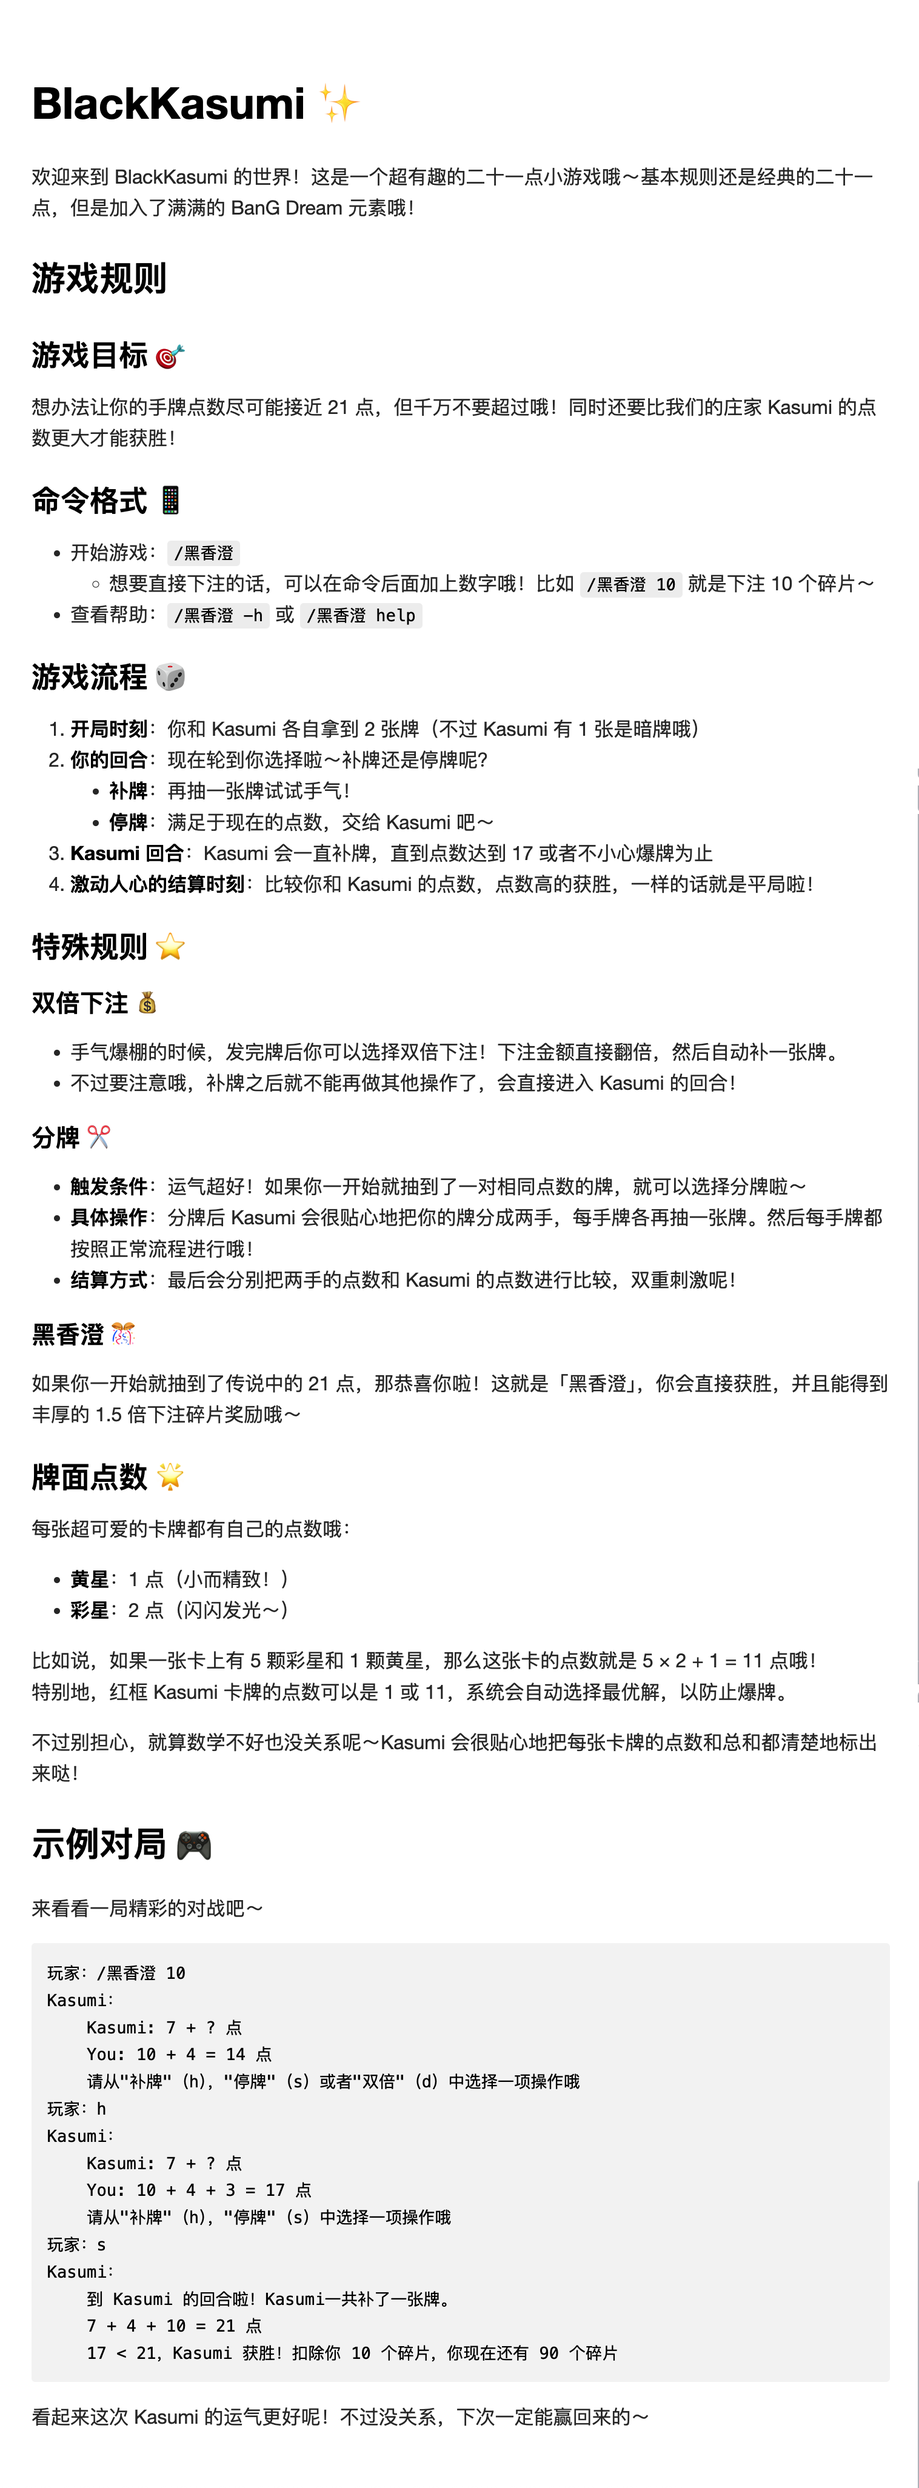
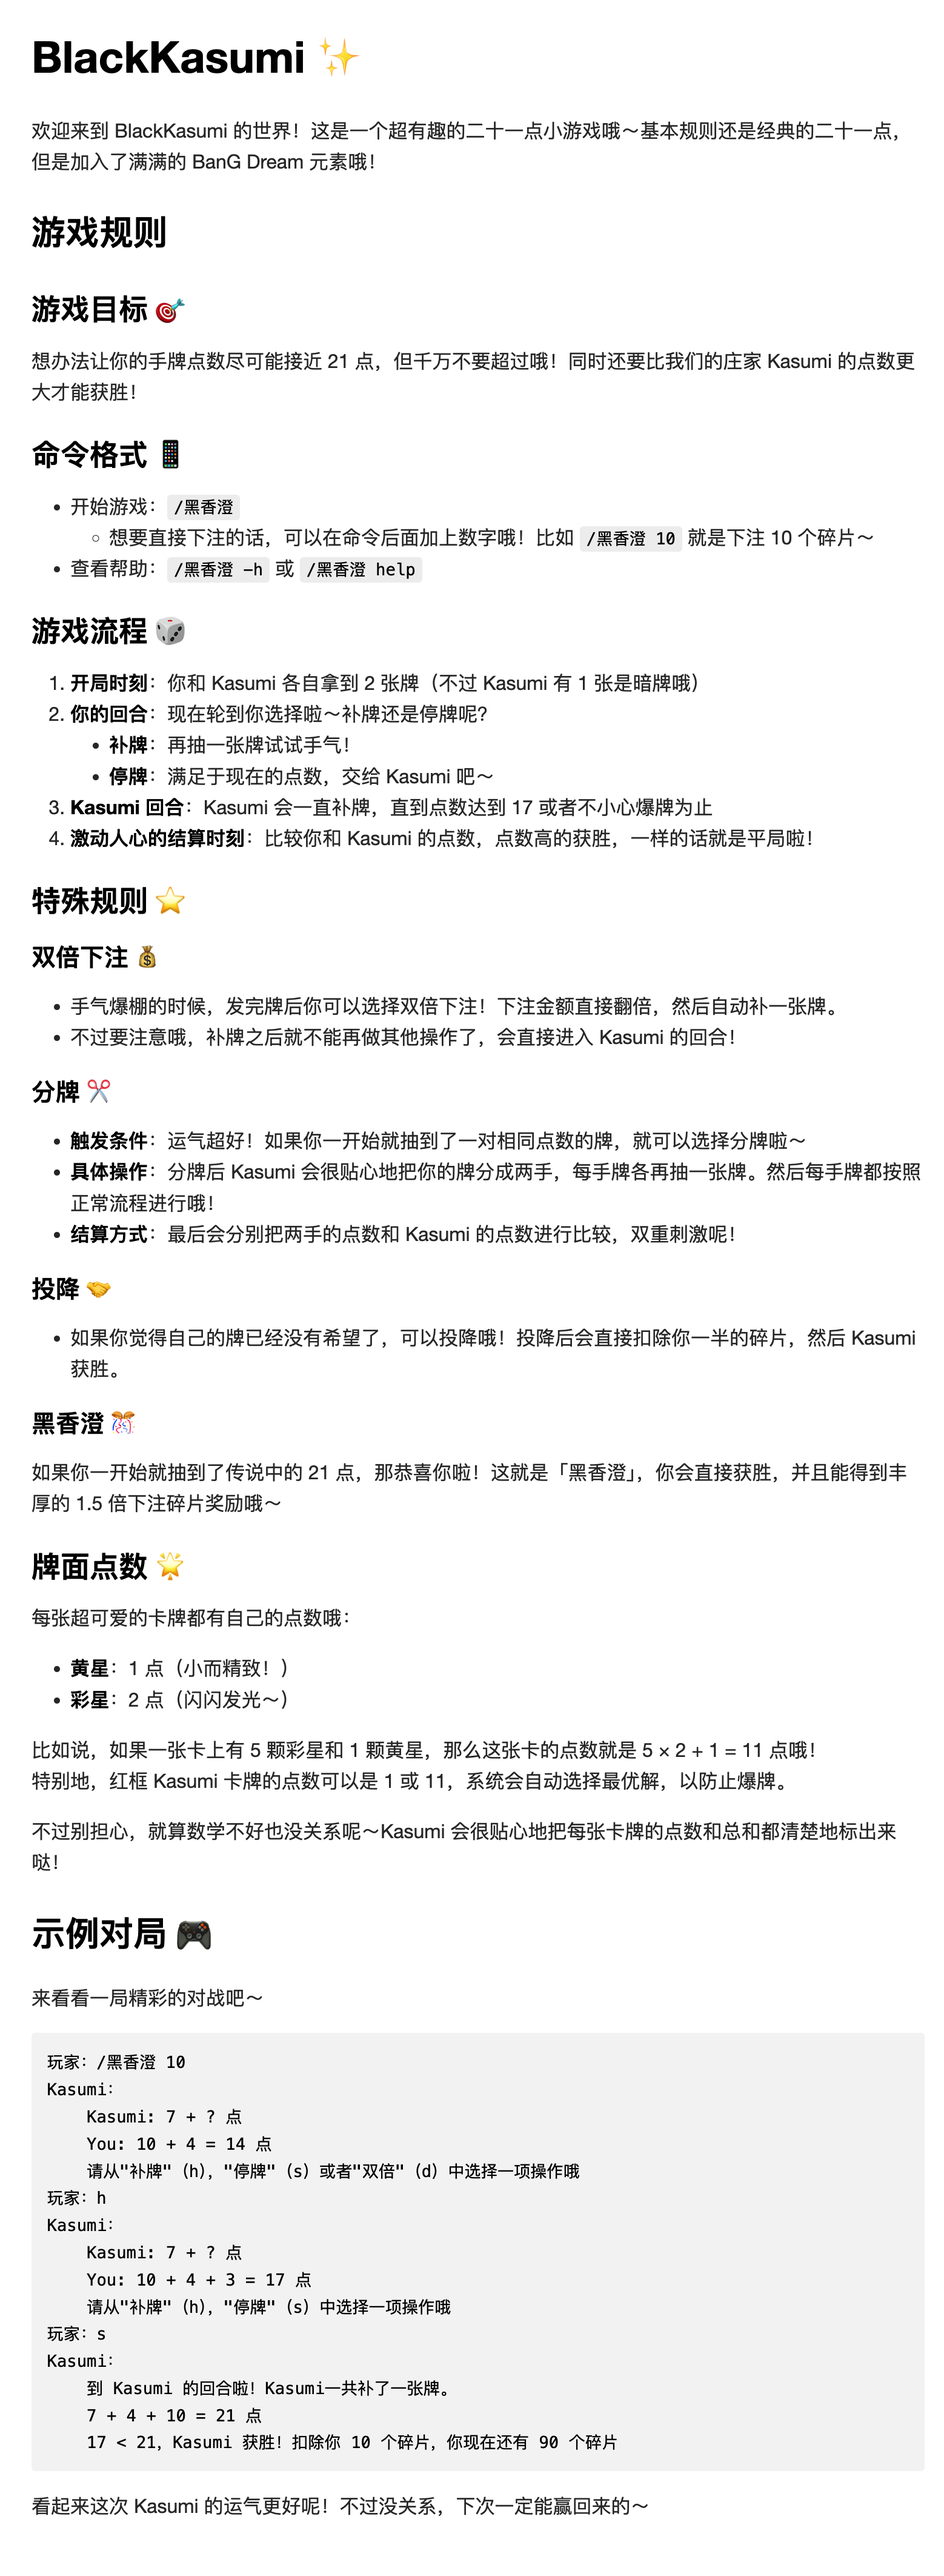
feat(blackjack): add surrender

diff --git a/plugins/blackjack/__init__.py b/plugins/blackjack/__init__.py
@@ -297,7 +297,7 @@ async def handle_start(event: MessageEvent, arg: Optional[Message] = CommandArg(
                         mime="image/jpeg",
                     )
                     + f"【第 {idx + 1} 幅牌】\n"
-                    + "你要“补牌”(h)还是“停牌”(s)呢？"
+                    + "你要“补牌”(h)，“停牌”(s)还是“投降”(q)呢？"
                     + gens[latest_message_id].element
                 )
                 playing = True
@@ -322,7 +322,7 @@ async def handle_start(event: MessageEvent, arg: Optional[Message] = CommandArg(
                             action = get_action(msg)
                             if action is None:
                                 await game_start.send(
-                                    "请从“补牌”(h)或“停牌”(s)中选择一项哦"
+                                    "请从“补牌”(h)，“停牌”(s)或“投降”(q)中选择一项哦"
                                     + gens[latest_message_id].element
                                 )
                                 continue
@@ -332,13 +332,13 @@ async def handle_start(event: MessageEvent, arg: Optional[Message] = CommandArg(
                                     MessageSegment.image(
                                         raw=image_to_bytes(
                                             renderer.generate_table(
-                                                dealer_hand, hand, True
+                                                dealer_hand, hand, hand.value <= 21
                                             )
                                         ),
                                         mime="image/jpeg",
                                     )
                                     + (
-                                        "请从“补牌”(h)或“停牌”(s)中选择一项哦"
+                                        "请从“补牌”(h)，“停牌”(s)或“投降”(q)中选择一项哦"
                                         if hand.value <= 21
                                         else ""
                                     )
@@ -360,6 +360,27 @@ async def handle_start(event: MessageEvent, arg: Optional[Message] = CommandArg(
                                     + gens[latest_message_id].element
                                 )
                                 continue
+                            elif action == "q":
+                                monetary.cost(
+                                    event.get_user_id(),
+                                    (bet_amount / 2).__ceil__(),
+                                    "blackjack",
+                                )
+                                channel_players[event.channel.id].remove(
+                                    event.get_user_id()
+                                )
+                                await game_start.finish(
+                                    MessageSegment.image(
+                                        raw=image_to_bytes(
+                                            renderer.generate_table(
+                                                dealer_hand, hand, False
+                                            )
+                                        ),
+                                        mime="image/jpeg",
+                                    )
+                                    + f"你投降啦，Kasumi 获胜！扣除你 {bet_amount} ÷ 2 = {(bet_amount / 2).__ceil__()} 个碎片，你现在还有 {monetary.get(event.get_user_id())} 个碎片"
+                                    + gens[latest_message_id].element
+                                )
                             else:
                                 # action == "s"
                                 playing = False
@@ -435,7 +456,7 @@ async def handle_start(event: MessageEvent, arg: Optional[Message] = CommandArg(
             play_round = 1
             await game_start.send(
                 init_msg
-                + "请从“补牌”(h)，“停牌”(s)或者“双倍”(d)中选择一项操作哦"
+                + "请从“补牌”(h)，“停牌”(s)，“双倍”(d)或者“投降”(q)中选择一项操作哦"
                 + gens[latest_message_id].element
             )
             while playing:
@@ -453,10 +474,12 @@ async def handle_start(event: MessageEvent, arg: Optional[Message] = CommandArg(
                         gens[latest_message_id] = PG(resp)
 
                         action = get_action(msg)
+                        print(action)
                         if action is None:
                             await game_start.send(
                                 "请从“补牌”(h)，“停牌”(s)"
-                                + ("或者“双倍”(d)" if play_round == 1 else "")
+                                + ("“双倍”(d)" if play_round == 1 else "")
+                                + "或者“投降”(q)"
                                 + "中选择一项操作哦"
                                 + gens[latest_message_id].element
                             )
@@ -477,7 +500,7 @@ async def handle_start(event: MessageEvent, arg: Optional[Message] = CommandArg(
                                     mime="image/jpeg",
                                 )
                                 + (
-                                    "请从“补牌”(h)，“停牌”(s)中选择一项操作哦"
+                                    "请从“补牌”(h)，“停牌”(s)或“投降”(q)中选择一项操作哦"
                                     if player_hand.value <= 21
                                     else ""
                                 )
@@ -523,7 +546,7 @@ async def handle_start(event: MessageEvent, arg: Optional[Message] = CommandArg(
                                             mime="image/jpeg",
                                         )
                                         + (
-                                            "请从“补牌”(h)，“停牌”(s)中选择一项操作哦"
+                                            "请从“补牌”(h)，“停牌”(s)或“投降”(q)中选择一项操作哦"
                                             if player_hand.value <= 21
                                             else ""
                                         )
@@ -547,7 +570,27 @@ async def handle_start(event: MessageEvent, arg: Optional[Message] = CommandArg(
                                     + gens[latest_message_id].element
                                 )
                                 continue
-
+                        elif action == "q":
+                            monetary.cost(
+                                event.get_user_id(),
+                                (bet_amount / 2).__ceil__(),
+                                "blackjack",
+                            )
+                            channel_players[event.channel.id].remove(
+                                event.get_user_id()
+                            )
+                            await game_start.finish(
+                                MessageSegment.image(
+                                    raw=image_to_bytes(
+                                        renderer.generate_table(
+                                            dealer_hand, player_hand, False
+                                        )
+                                    ),
+                                    mime="image/jpeg",
+                                )
+                                + f"你投降啦，Kasumi 获胜！扣除你 {bet_amount} ÷ 2 = {(bet_amount / 2).__ceil__()} 个碎片，你现在还有 {monetary.get(event.get_user_id())} 个碎片"
+                                + gens[latest_message_id].element
+                            )
             # Kasumi的回合
             result_messages = Message()
             result_messages += "到 Kasumi 的回合啦！"

diff --git a/plugins/blackjack/utils.py b/plugins/blackjack/utils.py
@@ -9,5 +9,7 @@ def get_action(msg: str) -> Optional[str]:
         return "s"
     elif msg in ["d", "double", "双倍", "双"]:
         return "d"
+    elif msg in ["q", "quit", "退出", "退", "surrender", "投降"]:
+        return "q"
     else:
         return None

diff --git a/plugins/blackjack/instruction.md b/plugins/blackjack/instruction.md
@@ -36,6 +36,10 @@
 - **具体操作**：分牌后 Kasumi 会很贴心地把你的牌分成两手，每手牌各再抽一张牌。然后每手牌都按照正常流程进行哦！
 - **结算方式**：最后会分别把两手的点数和 Kasumi 的点数进行比较，双重刺激呢！
 
+#### 投降 🤝
+
+- 如果你觉得自己的牌已经没有希望了，可以投降哦！投降后会直接扣除你一半的碎片，然后 Kasumi 获胜。
+
 #### 黑香澄 🎊
 
 如果你一开始就抽到了传说中的 21 点，那恭喜你啦！这就是「黑香澄」，你会直接获胜，并且能得到丰厚的 1.5 倍下注碎片奖励哦～
